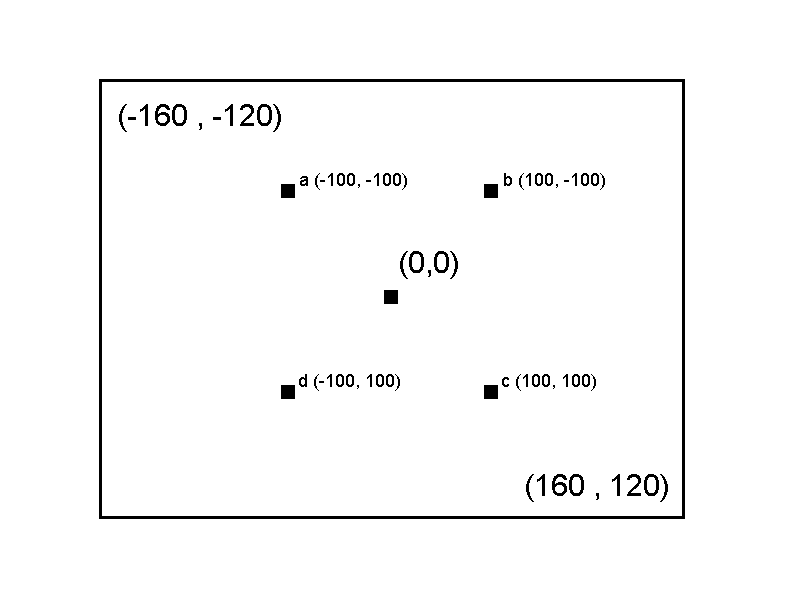
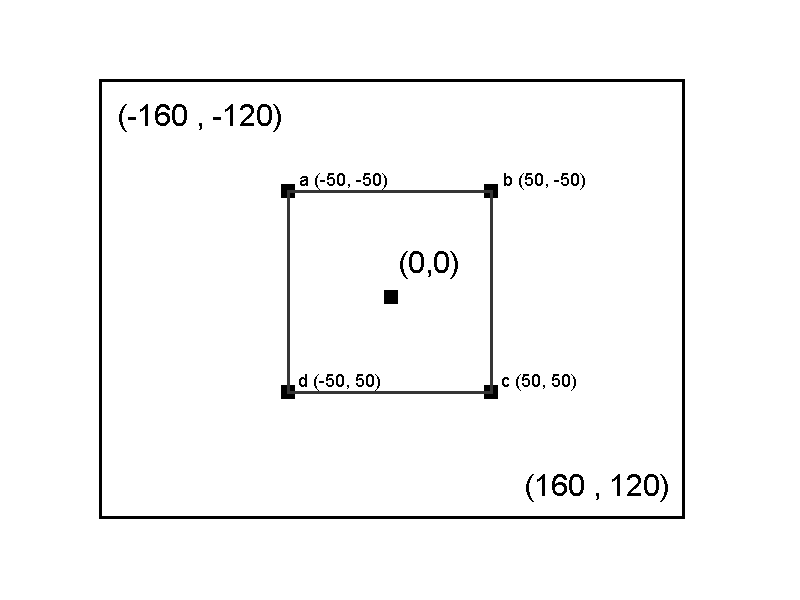
added quad tutorial.

Changed region(s): [[0.3438, 0.27, 0.625, 0.66], [0.6562, 0.27, 0.75, 0.33], [0.6562, 0.63, 0.75, 0.66]]

diff --git a/02_first_point_line_quad/02_first_point_line_quad.md b/02_first_point_line_quad/02_first_point_line_quad.md
@@ -140,13 +140,68 @@ In this example we will draw a quad according to the picture :
 ![](img/Quad_2D.png)
 
 
-To draw a quad, at the center of the screen, we must define the points in a clockwise order.
+To draw a quad, at the center of the screen, we must define the points. Order is not relevant.
 
 ```cpp
 
+ Vector2D points[4] = {Vector2D(0.0)};
+    points[0] = Vector2D(-50, -50);
+    points[1] = Vector2D(50,  -50);
+    points[2] = Vector2D( 50,  50);
+    points[3] = Vector2D(-50,  50);
 
+    bool fill = false;
+    auto color = HighColor::Colors::White;
 
 ```
+
+Now the code becomes :
+
+```cpp
+#include <srl.hpp>
+
+// Using to shorten names for Vector and HighColor
+using namespace SRL::Types;
+using namespace SRL::Math::Types;
+
+// Main program entry
+int main()
+{
+    // Initialize library
+	SRL::Core::Initialize(HighColor::Colors::Black);
+
+    SRL::Debug::Print(1,1, "02_Tutorial");
+    
+    Vector2D points[4] = {Vector2D(0.0)};
+    points[0] = Vector2D(-50, -50);
+    points[1] = Vector2D(50,  -50);
+    points[2] = Vector2D( 50,  50);
+    points[3] = Vector2D(-50,  50);
+
+    bool fill = false;
+    auto color = HighColor::Colors::White;
+
+	while(1)
+	{   
+        // Refresh screen
+        SRL::Scene2D::DrawPolygon(points, fill, color, 50);
+        
+        SRL::Core::Synchronize();
+	}
+
+	return 0;
+}
+```
+
+Result  :
+
+![](img/Quad_result_line.png)
+
+If you set the `fill` option to true, you get a filled polygon.
+![](img/Quad_result_filled.png)
+
+
+
 
 
 
